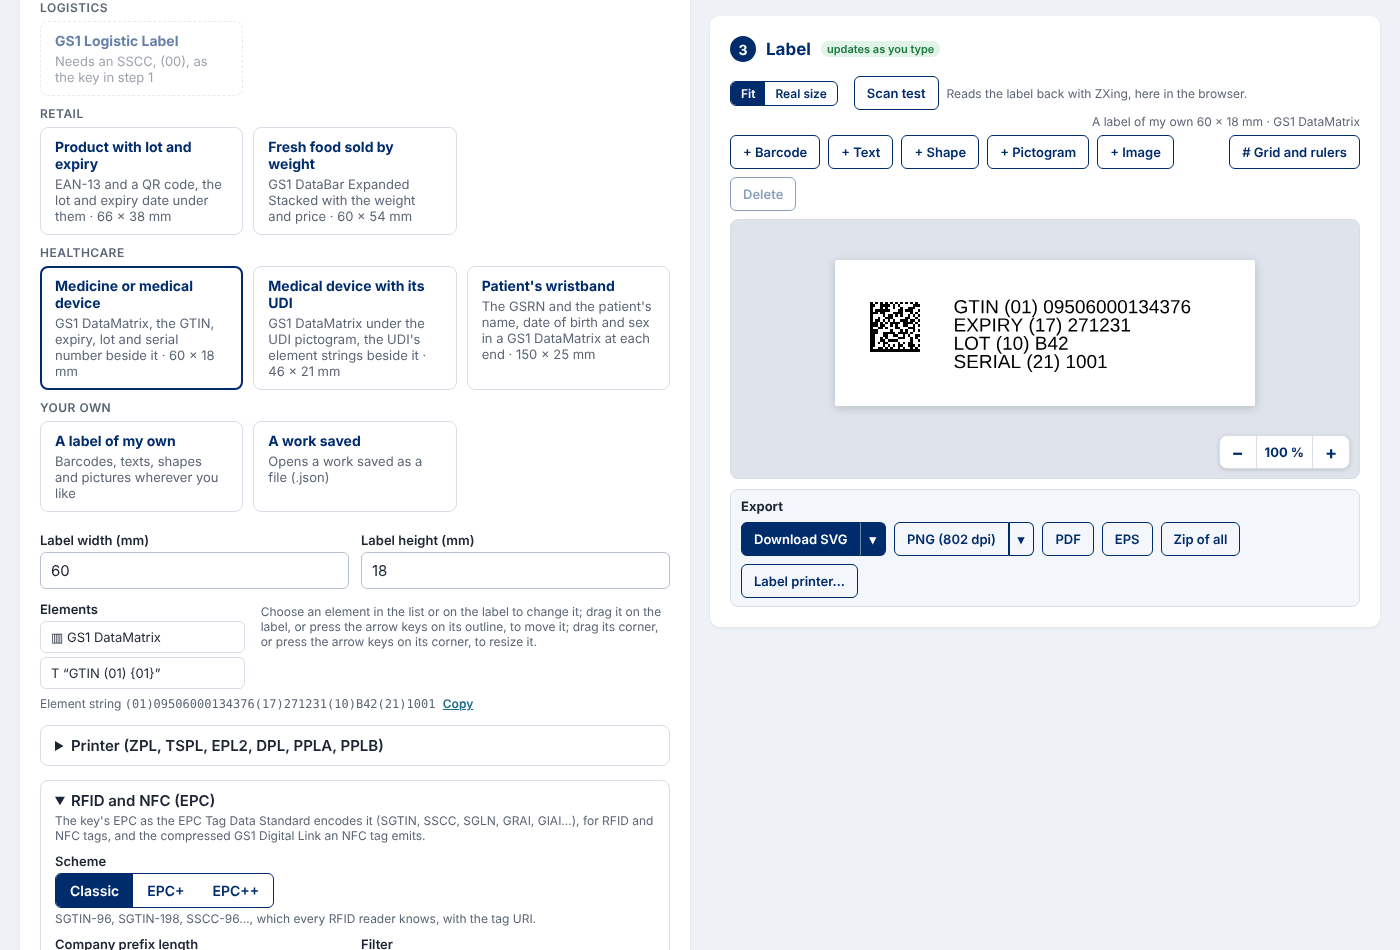
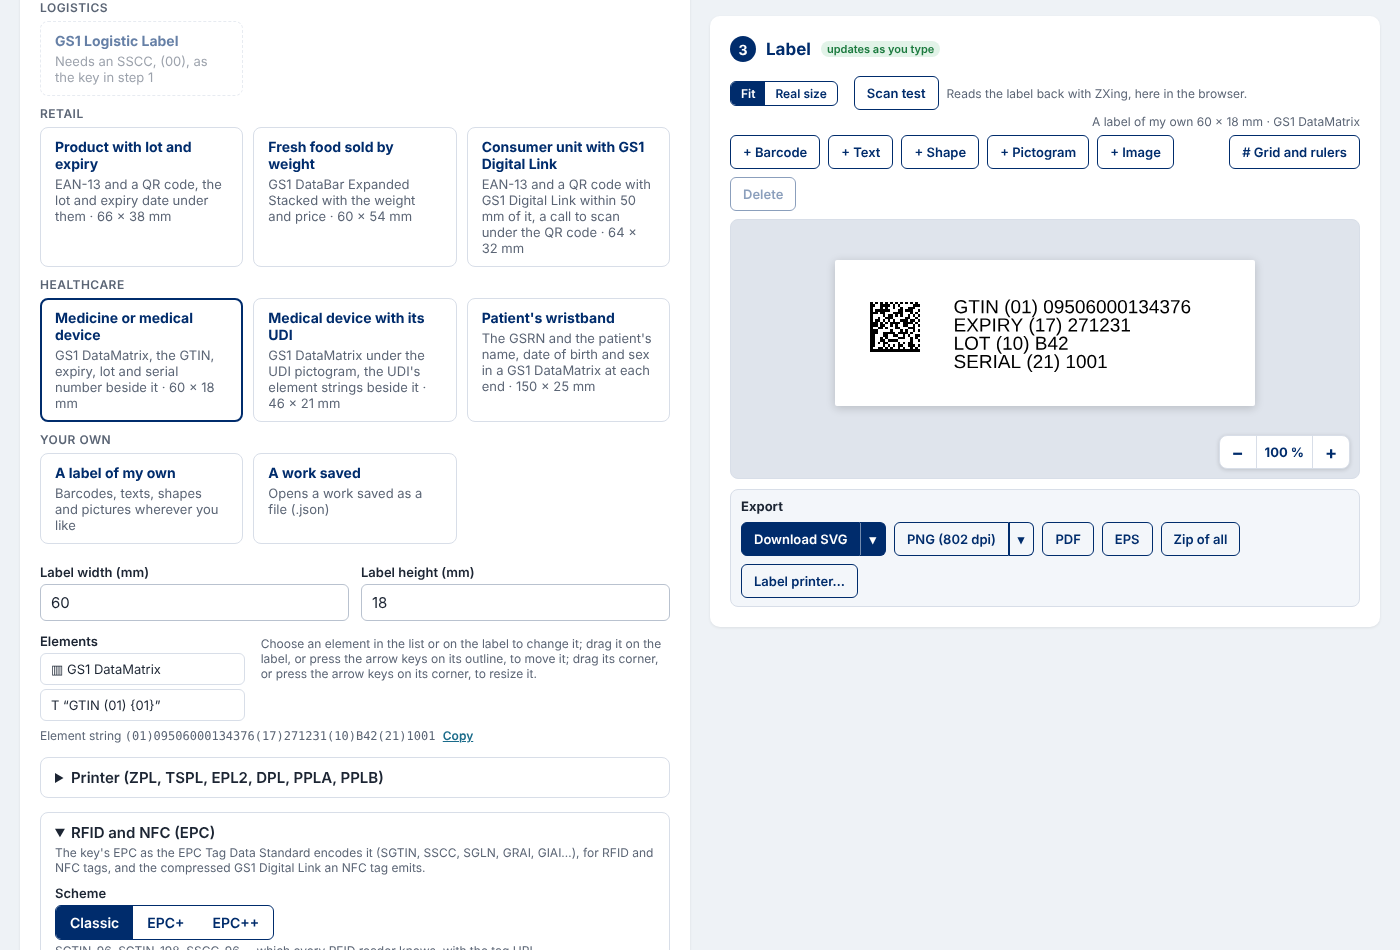
docs: the consumer unit template and the 50 mm rule in features, the user guide and the backlog; templates screenshot and inventory (2,474 tests)
Claude-Session: https://claude.ai/code/session_01AV1osrvcmwf4LJ5efCqS3L

Changed region(s): [[0.0307, 0.2442, 0.4914, 1.0], [0.3379, 0.1221, 0.4607, 0.4274]]

diff --git a/docs/features.md b/docs/features.md
@@ -133,7 +133,8 @@ Which standard each follows: [conformance](conformance.md).
 | The linear barcode's options said plainly | *Size of the linear barcode* and *Bar width reduction* in one framed group named after the symbol (*Linear barcode (EAN-13)*); each reduction says what it takes off and its share of the X (*0.020 mm less on every bar (6 % of X 0.330 mm)*), following the linear barcode's size; a line under them says that neither changes the other; a ? beside the reduction says what it is for (a press's ink spread; none for a label, laser or inkjet printer), a sheet on a phone (backlog 6.3 j, the owner's comment of 11 November 2026) | `6a2c2ec` | `editor`: the linear barcode's size and bar width reduction in one group |
 | The options in groups | The label's options grouped by what they do, each group framed and named on a computer and a tablet: *The symbol and its size*, *Linear barcode* (when there is one), *Human readable text*, *GS1 Digital Link URI*, *Prepress*, and *The GS1 Logistic Label* first for that label; a group with nothing in it is not drawn. On a phone each group is folded under its name with a line saying what is set (*QR code (GS1 Digital Link) · 100 % · error correction M*), a tap opening it (backlog 6.3 b, mock-up B of the usability study) | `2d7d06b` | `editor`: the label's options in groups by what they do, folded with a line of what is set on a phone |
 | The barcode only, or a label | A switch at the top of the label's options, *The barcode only* or *A label*, the kinds of label as cards under it: *GS1 Logistic Label* (greyed with its reason, *Needs an SSCC, (00), as the key in step 1*, until the key is one; then A6 at first, its size in a list under the cards), *A label of my own* and *A work saved* (Open…'s file chooser); three in a row on a computer and a tablet, one under another on a phone; until a card is chosen the barcode is drawn alone (backlog 6.3 g, the usability study's mock-up) | `5c57eb0` | `editor`: the barcode only or a label, the kinds of label as cards, one that does not fit saying why |
-| Labels by segment | Under *A label* the cards grouped as *Logistics*, *Retail*, *Healthcare* and *Your own*; the templates *Product with lot and expiry* (EAN-13 and a QR code, LOT (10) and EXPIRY (17) under them), *Fresh food sold by weight* (GS1 DataBar Expanded Stacked, a variable measure GTIN, weight and price) *Medicine or medical device* (GS1 DataMatrix with GTIN (01), EXPIRY (17), LOT (10) and SERIAL (21) beside it, 4.14.1 figure 4-8) *Medical device with its UDI* (15 November 2026: GS1 DataMatrix under the UDI pictogram, the UDI's element strings beside it, the MD pictogram) and *Patient's wristband* (the same day: a GSRN (8018) with the patient's name, date of birth and sex in a GS1 DataMatrix at each end), each opened as a label of one's own with step 2 answered; step 1's key and fitting data kept, the rest named with *Keep it* or *Leave it out*, another key giving way after asking; the examples added outlined and named until replaced (backlog 6.5, mock-up A of two) | `a875d1e`, `2c61492`, `c1185e0`, `df701ec` | `templates`: step 2's table offers its symbol for its data, and the page reads back whole · `templates`: keeps the key's value and the data that fits · `templates`: gives way to the template's example · `editor`: a template by segment opens its label of one's own · `editor`: the medical device's UDI template · `editor`: the patient's wristband template |
+| Labels by segment | Under *A label* the cards grouped as *Logistics*, *Retail*, *Healthcare* and *Your own*; the templates *Product with lot and expiry* (EAN-13 and a QR code, LOT (10) and EXPIRY (17) under them), *Consumer unit with GS1 Digital Link* (15 November 2026: an EAN-13 and a QR code carrying the GTIN alone, within 50 mm of it, a call to scan under it, 6.3.3.1), *Fresh food sold by weight* (GS1 DataBar Expanded Stacked, a variable measure GTIN, weight and price) *Medicine or medical device* (GS1 DataMatrix with GTIN (01), EXPIRY (17), LOT (10) and SERIAL (21) beside it, 4.14.1 figure 4-8) *Medical device with its UDI* (15 November 2026: GS1 DataMatrix under the UDI pictogram, the UDI's element strings beside it, the MD pictogram) and *Patient's wristband* (the same day: a GSRN (8018) with the patient's name, date of birth and sex in a GS1 DataMatrix at each end), each opened as a label of one's own with step 2 answered; step 1's key and fitting data kept, the rest named with *Keep it* or *Leave it out*, another key giving way after asking; the examples added outlined and named until replaced (backlog 6.5, mock-up A of two) | `a875d1e`, `2c61492`, `c1185e0`, `df701ec` | `templates`: step 2's table offers its symbol for its data, and the page reads back whole · `templates`: keeps the key's value and the data that fits · `templates`: gives way to the template's example · `editor`: a template by segment opens its label of one's own · `editor`: the medical device's UDI template · `editor`: the patient's wristband template · `templates`: shows each element string the template holds · `editor`: the consumer unit template |
+| A 2D barcode within 50 mm of the linear one | On a label of one's own in a point-of-sale environment (tables 1, 3 and 10), a 2D barcode whose quiet zones reach further than 50 mm from the centre of the nearest EAN/UPC or GS1 DataBar named in red, as section 6.3.3.1 asks of both barcodes scanned at the point of sale; not in general distribution nor beside a GS1-128 (backlog 6.5) | — | `design`: names a 2D barcode further than 50 mm from the centre of the nearest point-of-sale linear barcode · `editor`: the consumer unit template |
 | The human readable text's format | *Text format* under *Human readable text*, each choice showing the data as it writes it: the AI and data, `(17)271231` (the default); the data title, `USE BY or EXPIRY 271231`; both, `USE BY or EXPIRY (17) 271231` (General Specifications 4.14.1, figure 4-8); or a format of one's own with `{title}`, `{ai}`, `{value}`, a date's `{value:DD MMM YYYY}` written without its AI (figure 4-9), its example as typed and a pattern that cannot write the text refused; *Data titles in* English or one of five languages; the same under a barcode of a label of one's own; in the SVG, PDF, EPS, PNG and every printer language, the symbol unchanged; saved in the work file (backlog 6.11, mock-up A of two) | `a0ac303`, `bdedbf1` | `hriFormat`: writes an element string as the AI and data, data titles, or both · `hriFormat`: writes a pattern of one's own · `hriFormat`: draws each line of a 2D symbol in the format, the symbol unchanged and read back · `hriFormat`: writes the text in the format · `labelary`: the text with data titles and AIs prints under the symbol · `editor`: the human readable text's format |
 | A barcode's own options on a label of one's own | *This barcode's options* under a barcode of a label of one's own, framed on a computer and folded on a phone: the text's place and height (not for an EAN/UPC's digits, not split for ITF-14), a QR code's level (the label's until changed) and encoding mode, a linear symbol's bar width reduction, ITF-14's bearer bars; each the barcode's own, in the files, the printer languages and the work file (backlog 6.6, mock-up A of two; the linear symbol beside a 2D one in the next row) | `54c1796`, `57b6a9d` | `designSymbol`: draws each barcode as the symbol alone with the same options · `designSymbol`: writes each barcode's level, text place and height and bearer bars in ZPL · `labelary`: a label of one's own whose barcodes have options of their own · `work`: refuses a work file with a part not as the studio writes it · `editor`: a barcode on a label of one's own takes the options of the symbol alone |
 | A linear barcode beside a 2D one on a label of one's own | In *This barcode's options* of a QR code or Data Matrix, where the page's scanning environment has an EAN/UPC range: **Linear barcode beside it** (EAN-13 / UPC-A / EAN-8 as the GTIN takes, or UPC-E), its **Size** (the 2D symbol's or its own) and the **Bar width reduction** its bars take; the pair drawn as the symbol alone draws it, both read back; in the printer languages two symbols, each with the printer's own command where the pair puts its bars, read back through Labelary and Labelize; refused without a GTIN of a consumer unit, in an environment with no EAN/UPC, or UPC-E for a GTIN that does not zero-suppress; saved with the work (backlog 6.6, mock-up A of two) | `2686df0`, `372da71` | `designSymbol`: draws the pair as the symbol alone does · `designSymbol`: writes the pair in every printer language · `designSymbol`: is refused without a GTIN of a consumer unit · `printlangs`: a label of one's own at · `labelary`: a label of one's own at · `editor`: a 2D barcode on a label of one's own takes an EAN-13 beside it |

diff --git a/docs/test-inventory.md b/docs/test-inventory.md
@@ -1,6 +1,6 @@
 # Inventory of features from the tests
 
-Every test of the core's suite, of the web application's unit tests and of the editor's browser tests on 2026-11-15: 2,471 tests in 54 files. Each line is a test's name, a sentence that says what is true when it passes; together they say what the studio does and that it works. Each feature of [features.md](features.md) names the tests that prove it. Generated by `node scripts/inventory.mjs` from a complete run of the core's tests and the list of the browser tests ([ADR 0005](adr/0005-documentation-and-feature-inventory.md)); do not edit by hand.
+Every test of the core's suite, of the web application's unit tests and of the editor's browser tests on 2026-11-15: 2,474 tests in 54 files. Each line is a test's name, a sentence that says what is true when it passes; together they say what the studio does and that it works. Each feature of [features.md](features.md) names the tests that prove it. Generated by `node scripts/inventory.mjs` from a complete run of the core's tests and the list of the browser tests ([ADR 0005](adr/0005-documentation-and-feature-inventory.md)); do not edit by hand.
 
 Every unit test ran and passed in the run that wrote this file, the ZPL printed by Labelary included (`LABELARY=1`), but the documents' own test (`docs`), which checks this file and runs right after it is written. The browser tests are listed by Playwright and run by CI against the built application, on a desktop, a phone and a tablet held horizontally (a test about one layout is skipped in the others).
 
@@ -8,7 +8,7 @@ Every unit test ran and passed in the run that wrote this file, the ZPL printed 
 |---|---|---:|
 | [Input and identification: the Syntax Engine, keys, qualifiers, attributes](#input-and-identification-the-syntax-engine-keys-qualifiers-attributes) | `attributes`, `checkDigit`, `identifiers`, `identify`, `syntax`, `syntax-engine` | 89 |
 | [Where it is scanned: the assistant, the guided choice and the symbol specification tables](#where-it-is-scanned-the-assistant-the-guided-choice-and-the-symbol-specification-tables) | `assistant`, `environments`, `guide`, `specifications` | 223 |
-| [Symbols and the label's layout](#symbols-and-the-labels-layout) | `bars`, `design`, `designSymbol`, `gs1128`, `guides`, `hriFormat`, `hriplace`, `imagefile`, `labelsvg`, `layout`, `logistic`, `picture`, `place`, `pyformat`, `qrmode`, `resize`, `said`, `templates` | 230 |
+| [Symbols and the label's layout](#symbols-and-the-labels-layout) | `bars`, `design`, `designSymbol`, `gs1128`, `guides`, `hriFormat`, `hriplace`, `imagefile`, `labelsvg`, `layout`, `logistic`, `picture`, `place`, `pyformat`, `qrmode`, `resize`, `said`, `templates` | 232 |
 | [Exports and prepress: SVG, PNG, PDF, EPS, zip](#exports-and-prepress-svg-png-pdf-eps-zip) | `prepress`, `render`, `roundtrip` | 60 |
 | [In bulk: rows, the report, sequences, generation](#in-bulk-rows-the-report-sequences-generation) | `batch`, `bulk`, `report`, `sequence`, `table` | 167 |
 | [Printers: the dot grid, profiles, ZPL, TSPL, EPL2, DPL, PPLA and PPLB](#printers-the-dot-grid-profiles-zpl-tspl-epl2-dpl-ppla-and-pplb) | `argox`, `dots`, `labelary`, `printer`, `printlangs`, `zpl` | 253 |
@@ -16,7 +16,7 @@ Every unit test ran and passed in the run that wrote this file, the ZPL printed 
 | [The work saved on one's own computer and opened again](#the-work-saved-on-ones-own-computer-and-opened-again) | `lastwork`, `opened`, `work` | 9 |
 | [The interface's languages: English, Brazilian Portuguese, Spanish, French, German, Italian](#the-interfaces-languages-english-brazilian-portuguese-spanish-french-german-italian) | `i18n` | 15 |
 | [The documents](#the-documents) | `docs` | 7 |
-| [The editor in the browser (Playwright, desktop, phone and tablet)](#the-editor-in-the-browser-playwright-desktop-phone-and-tablet) | `tour`, `editor`, `layouts` | 134 |
+| [The editor in the browser (Playwright, desktop, phone and tablet)](#the-editor-in-the-browser-playwright-desktop-phone-and-tablet) | `tour`, `editor`, `layouts` | 135 |
 
 ## Input and identification: the Syntax Engine, keys, qualifiers, attributes
 
@@ -411,7 +411,7 @@ Every unit test ran and passed in the run that wrote this file, the ZPL printed 
 
 </details>
 
-<details><summary><code>design</code> — 19 tests (<code>packages/core/test/design.test.ts</code>)</summary>
+<details><summary><code>design</code> — 20 tests (<code>packages/core/test/design.test.ts</code>)</summary>
 
 - a label of one's own › places each barcode and text block where the page says, each symbol at its own X-dimension
 - a label of one's own › writes the text under each barcode in its data's order: the element string's, or the URI's
@@ -430,6 +430,7 @@ Every unit test ran and passed in the run that wrote this file, the ZPL printed 
 - a label of one's own › writes a date's month in the text block's language: English, Portuguese, Spanish, French, German or Italian
 - a label of one's own › prints a date field in its format, in the drawing and in a printer language
 - a label of one's own › names an element past the page's edge and a symbol overlapping another element, and still draws the page
+- a label of one's own › names a 2D barcode further than 50 mm from the centre of the nearest point-of-sale linear barcode, at the point of sale only
 - a label of one's own › refuses a barcode the data or the table cannot give, naming it
 - a label of one's own › draws every row's page in bulk, each with its own data, in the files and in ZPL
 
@@ -690,11 +691,12 @@ Every unit test ran and passed in the run that wrote this file, the ZPL printed 
 
 </details>
 
-<details><summary><code>templates</code> — 11 tests (<code>packages/core/test/templates.test.ts</code>)</summary>
+<details><summary><code>templates</code> — 12 tests (<code>packages/core/test/templates.test.ts</code>)</summary>
 
 - labels by segment › lists retail, then healthcare, each template with a unique id
 - labels by segment › retail-lot-expiry: step 2's table offers its symbol for its data, and the page reads back whole
 - labels by segment › retail-weight: step 2's table offers its symbol for its data, and the page reads back whole
+- labels by segment › retail-digital-link: step 2's table offers its symbol for its data, and the page reads back whole
 - labels by segment › healthcare-pack: step 2's table offers its symbol for its data, and the page reads back whole
 - labels by segment › healthcare-udi: step 2's table offers its symbol for its data, and the page reads back whole
 - labels by segment › patient-wristband: step 2's table offers its symbol for its data, and the page reads back whole
@@ -2645,7 +2647,7 @@ Every unit test ran and passed in the run that wrote this file, the ZPL printed 
 
 </details>
 
-<details><summary><code>editor</code> — 116 tests (<code>apps/web/e2e/editor.spec.ts</code>)</summary>
+<details><summary><code>editor</code> — 117 tests (<code>apps/web/e2e/editor.spec.ts</code>)</summary>
 
 - qualifiers and a decimal attribute go into the URI as typed
 - the rows' order is the element string's, in a GS1 DataMatrix and its text; the URI keeps its own
@@ -2760,6 +2762,7 @@ Every unit test ran and passed in the run that wrote this file, the ZPL printed 
 - a template by segment opens its label of one's own, fills steps 1 and 2 with examples to replace, and asks about data it has no place for
 - the medical device's UDI template shows the UDI's element strings under its pictogram, and + Pictogram places UDI or MD on any label
 - the patient's wristband template sets step 1 to a GSRN with the patient's data, its two GS1 DataMatrix read back
+- the consumer unit template: an EAN-13 and a QR code with GS1 Digital Link, named once the QR code is more than 50 mm away
 - the human readable text's format: the AI, data titles, both or one's own, in the label and the print file
 - a barcode on a label of one's own takes the options of the symbol alone
 - a 2D barcode on a label of one's own takes an EAN-13 beside it, as the symbol alone does

diff --git a/docs/user-guide.md b/docs/user-guide.md
@@ -337,6 +337,7 @@ In **Label**, **A label** shows the kinds of label grouped by segment: *Logistic
 | Segment | Template | What it holds |
 |---|---|---|
 | Retail | *Product with lot and expiry*, 66 × 38 mm | An EAN-13 and a QR code (GS1 Digital Link) side by side, their quiet zones kept, *LOT (10)* and *EXPIRY (17)* under them (General Specifications 4.15.1, 6.3.3.1) |
+| Retail | *Consumer unit with GS1 Digital Link*, 64 × 32 mm | An EAN-13 and a QR code whose GS1 Digital Link URI carries the GTIN alone, the QR code with its quiet zones within 50 mm of the EAN-13's centre (6.3.3.1), *SCAN FOR PRODUCT INFO* under it; the barcode area of a pack's back, lower right (6.3.2: the front is the trading and advertising area) |
 | Retail | *Fresh food sold by weight*, 60 × 54 mm | A GS1 DataBar Expanded Stacked with a variable measure GTIN (its first digit 9), the net weight (310n) and the price (392n), as a scale prints them (2.1.12) |
 | Healthcare | *Medicine or medical device*, 60 × 18 mm | A GS1 DataMatrix with *GTIN (01)*, *EXPIRY (17)*, *LOT (10)* and *SERIAL (21)* written beside it (4.14.1, figure 4-8), its element strings in the order (01), (17), (10), (21), for hospitals (table 6) |
 | Healthcare | *Medical device with its UDI*, 46 × 21 mm | A GS1 DataMatrix under the *UDI* pictogram (ISO 15223-1, symbol 5.7.10), the UDI's element strings beside it, one a line, each AI in parentheses before its value and no data titles, as the UDI rules take a GS1 carrier's human readable text; the *MD* pictogram (5.7.7) at the top right |
@@ -467,7 +468,9 @@ label**, then the card *A label of my own*:
 
 A barcode, line, box or image past the label's edge, or a barcode overlapping another element (its quiet zones must stay
 clear; a box's outline counts only where it is drawn), is named in red under
-the size; the label is still drawn. **Scan test** reads every barcode. The label exports as SVG, PNG, PDF and EPS and
+the size; so is a 2D barcode more than 50 mm from the centre of the nearest EAN/UPC or GS1 DataBar when step 3's
+scanning environment is a point of sale (tables 1, 3 and 10): with its quiet zones it should stay within that radius, or
+the scanner may not take both for the same trade item (General Specifications 6.3.3.1). The label is still drawn. **Scan test** reads every barcode. The label exports as SVG, PNG, PDF and EPS and
 in bulk, and in ZPL with the printer's own commands (the printer section's file, its test print and the bulk ZPL file): each
 barcode as the symbol alone is written, at the whole dots a module nearest to its own X-dimension (within its table's
 row), its bars where the label puts them; each line of text with `^A0` at its capitals' height; each line and box with

diff --git a/docs/developer-guide.md b/docs/developer-guide.md
@@ -305,8 +305,8 @@ that say what is true; together they are the [inventory of features](test-invent
 | `labelsvg` | the label's SVG drawn by resvg and read back | 6 |
 | `layout` | EAN/UPC and the label's layout against the resolver | 45 |
 | `logistic` | the GS1 Logistic Label | 13 |
-| `design` | a label of one's own: barcodes, text blocks, lines, boxes and images on a page, read back, in bulk | 19 |
-| `templates` | labels by segment: each template's page whole and read back, step 2 offering its symbol; step 1's data kept, examples added, the rest named | 11 |
+| `design` | a label of one's own: barcodes, text blocks, lines, boxes and images on a page, read back, in bulk | 20 |
+| `templates` | labels by segment: each template's page whole and read back, step 2 offering its symbol; step 1's data kept, examples added, the rest named | 12 |
 | `picture` | an image as a one-bit picture: its pixels, its size at a printer's dots, its rectangles | 9 |
 | `ndef` | NDEF URI records | 3 |
 | `prepress` | EPS through Ghostscript, 100 % K, bar width reduction, PNG at a resolution | 15 |
@@ -333,7 +333,7 @@ that say what is true; together they are the [inventory of features](test-invent
 | `said` | what an arrow key did on a label of one's own, said in the hint and to a screen reader, the label's edge reached by moving or resizing (apps/web/test) | 7 |
 | `guides` | the grid and rulers of a label of one's own: the grid's and the ticks' steps as the label is drawn, the choice kept (apps/web/test) | 10 |
 | `tour` | the tour of the studio: its card beside what it points at and whole within the window, its ring within the window, its stops on a computer and on a phone or a tablet (apps/web/test) | 8 |
-| `editor` | the editor in a browser, desktop, phone and tablet (Playwright) | 116 |
+| `editor` | the editor in a browser, desktop, phone and tablet (Playwright) | 117 |
 | `layouts` | the computer's, the phone's and the tablet's layouts, installing the app, About (Playwright) | 10 |
 | `printlangs` | TSPL, EPL2 and DPL rendered by Labelize and read back; what they refuse | 128 |
 | `argox` | PPLA and PPLB as the DPL and EPL2 files Argox's manual allows, read back; what they refuse | 27 |

diff --git a/README.md b/README.md
@@ -739,7 +739,12 @@ now. 6.10 (the assistant, 13 November) before 6.4 and 6.5, which follow from it.
   strings beside the GS1 DataMatrix, one a line; B wrote them in one line under it): under the ISO 15223-1 UDI pictogram,
   with MD, and with it **+ Pictogram** on any label of one's own (the owner: let the UDI pictogram be placed); a
   patient's wristband the same day (mock-up A of two: a GS1 DataMatrix at each end, the name, date of birth, sex and
-  GSRN between; B put the GSRN alone in a GS1-128 along the band); next: a consumer unit's front panel*
+  GSRN between; B put the GSRN alone in a GS1-128 along the band); a consumer unit with GS1 Digital Link done 15 November
+  (mock-up A of two: the EAN-13 and a QR code carrying the GTIN alone side by side, a call to scan under the QR code; B
+  stacked them on a narrow panel), as the barcode area on a pack's back rather than its front (General Specifications
+  6.3.2, 6.3.3.1: the front is the trading and advertising area), and with it a 2D barcode further than 50 mm from the
+  nearest point-of-sale linear barcode named on any label of one's own (6.3.3.1); next: patients and further templates
+  as the owner chooses them*
 - 6.6 A barcode on a label of one's own with the options of the symbol alone (M): today its symbol, size, human
   readable text and element strings; then the human readable text's place and height (1.16), error correction and
   the QR code's encoding modes (1.14), the bar width reduction, ITF-14's bearer bars, and a linear symbol beside a
